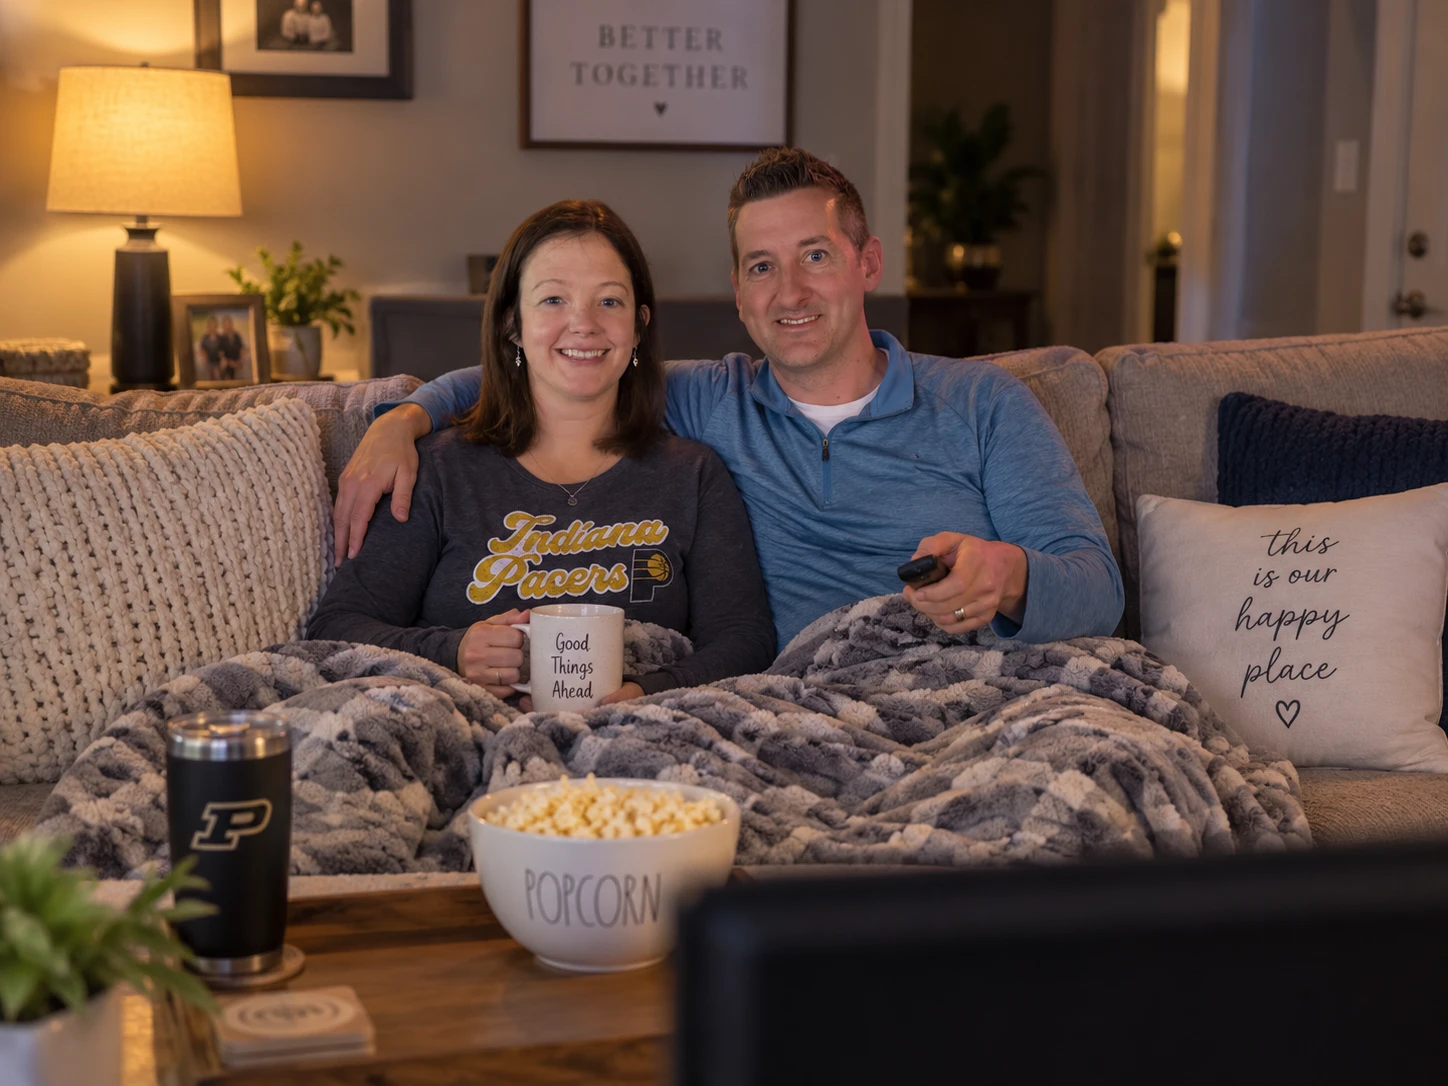
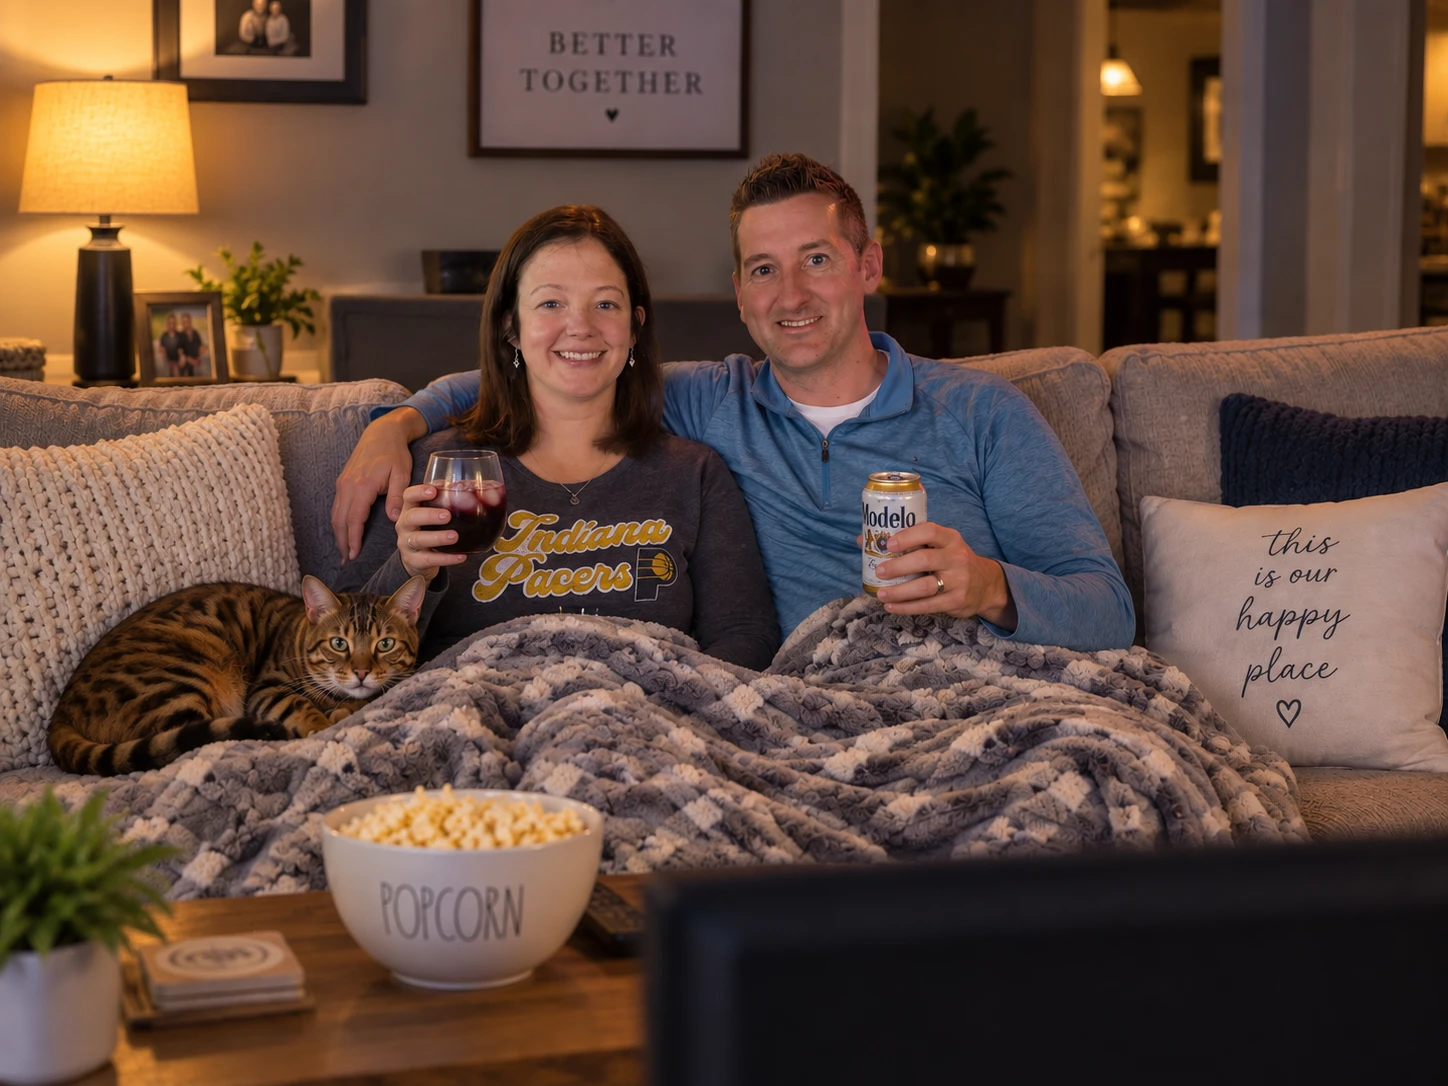
Swap hero photo for the correct one (with the cat)
Bill: "I sent my wife the link to our sharing site and it showed the
old picture. make sure the new picture with the cat is on the site."
The earlier hero photo (added this session) was a different picture
from the same couch, sourced from a scratchpad file — no cat, coffee
mugs instead of wine/beer. Bill had actually sent a second photo
earlier in the thread that this session hadn't located (searched
scratchpad/tmp/uploads before finding it); one image he pointed to
mid-search turned out to be an unrelated screenshot from a different
Claude conversation, not the photo. He then re-attached the real one
directly. Replaced trakt/images/watch-together-hero.webp with it and
updated the alt text to match (cat, popcorn, wine, and a beer, not
coffee).

Claude-Session: https://claude.ai/code/session_01BPRecV36WrEZyer2LM8hCr

diff --git a/trakt/watch-together.html b/trakt/watch-together.html
@@ -127,7 +127,7 @@
         <div class="tk-subtitle" id="subtitleText">What's ready to watch right now, and what's coming up next.</div>
 
         <div class="wt-hero-photo-wrap">
-          <img class="wt-hero-photo" src="./images/watch-together-hero.webp" alt="Bill and his wife on the couch with popcorn and coffee, ready for a show." loading="eager" />
+          <img class="wt-hero-photo" src="./images/watch-together-hero.webp" alt="Bill and his wife on the couch with their cat, popcorn, and drinks, ready for a show." loading="eager" />
         </div>
         <div class="wt-hero-caption">This is our happy place. ❤</div>
 
